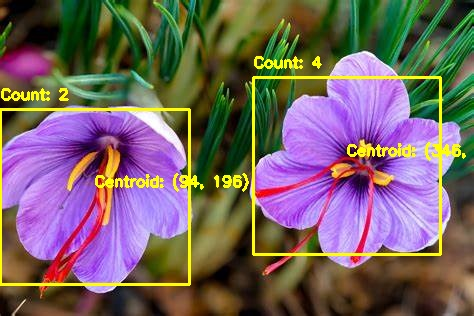
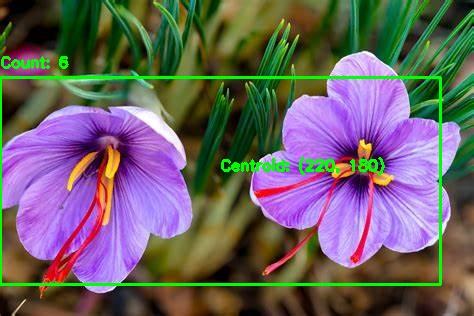
Updated

Changed region(s): [[0.0, 0.1709, 1.0, 0.9114]]

diff --git a/saffronBush.py b/saffronBush.py
@@ -5,7 +5,7 @@ def load_image(file_path):
     """Load an image from the specified file path."""  
     image = cv2.imread(file_path)  
     if image is None:  
-        print(f"Error: Could not load image from {file_path}. Check the file path.")  
+        raise ValueError(f"Error: Could not load image from {file_path}. Check the file path.")  
     return image  
 
 def convert_to_hsv(image):  
@@ -25,80 +25,47 @@ def perform_morphological_operations(mask):
     return mask  
 
 def find_and_draw_groups(image, mask):  
-    """Find contours, group them, and draw a bounding box around each group."""  
+    """Find contours and draw a bounding box around all detected flowers as one group."""  
     contours, _ = cv2.findContours(mask, cv2.RETR_EXTERNAL, cv2.CHAIN_APPROX_SIMPLE)  
-    # Filter contours based on area  
-    filtered_contours = [cnt for cnt in contours if cv2.contourArea(cnt) > 500]  
+    filtered_contours = [cnt for cnt in contours if cv2.contourArea(cnt) > 300]  # Adjusted minimum area  
 
-    groups = []  
-    visited = [False] * len(filtered_contours)  
+    if filtered_contours:  
+        draw_group(image, filtered_contours)  # Draw a single group for all flowers  
 
-    for i in range(len(filtered_contours)):  
-        if not visited[i]:  
-            group = [filtered_contours[i]]  
-            visited[i] = True  
+def draw_group(image, contours):  
+    """Draw a bounding box around all contours and annotate."""  
+    x_min = min(cv2.boundingRect(cnt)[0] for cnt in contours)  
+    y_min = min(cv2.boundingRect(cnt)[1] for cnt in contours)  
+    x_max = max(cv2.boundingRect(cnt)[0] + cv2.boundingRect(cnt)[2] for cnt in contours)  
+    y_max = max(cv2.boundingRect(cnt)[1] + cv2.boundingRect(cnt)[3] for cnt in contours)  
 
-            for j in range(i + 1, len(filtered_contours)):  
-                if not visited[j]:  
-                    # Check if any contour in group is close to contour j  
-                    if is_contour_near(group, filtered_contours[j]):  
-                        group.append(filtered_contours[j])  
-                        visited[j] = True  
-
-            groups.append(group)  
-
-    # Draw groups and report counts  
-    for group in groups:  
-        draw_group(image, group)  
-
-    return groups  
-
-def is_contour_near(group, contour):  
-    """Determine if a contour is near any contour in the existing group."""  
-    group_centroids = [cv2.boundingRect(cnt) for cnt in group]   
-    x, y, w, h = cv2.boundingRect(contour)  
-    centroid = (x + w // 2, y + h // 2)  # center of the current contour  
-
-    for gx, gy, gw, gh in group_centroids:  
-        group_centroid = (gx + gw // 2, gy + gh // 2)  
-        if np.linalg.norm(np.array(centroid) - np.array(group_centroid)) < 100:  # Adjust distance threshold  
-            return True  
-
-    return False  
-
-def draw_group(image, group):  
-    """Draw a bounding box around the group and annotate."""  
-    x_min = min(cv2.boundingRect(cnt)[0] for cnt in group)  
-    y_min = min(cv2.boundingRect(cnt)[1] for cnt in group)  
-    x_max = max(cv2.boundingRect(cnt)[0] + cv2.boundingRect(cnt)[2] for cnt in group)  
-    y_max = max(cv2.boundingRect(cnt)[1] + cv2.boundingRect(cnt)[3] for cnt in group)  
-
-    cv2.rectangle(image, (x_min, y_min), (x_max, y_max), (0, 255, 255), 2)  # Yellow rectangle  
-    count = len(group)  
+    cv2.rectangle(image, (x_min, y_min), (x_max, y_max), (0, 255, 0), 2)  # Green rectangle  
+    count = len(contours)  
     centroid_x = (x_min + x_max) // 2  
     centroid_y = (y_min + y_max) // 2  
 
-    cv2.putText(image, f"Count: {count}", (x_min, y_min - 10), cv2.FONT_HERSHEY_SIMPLEX, 0.5, (0, 255, 255), 2)  
-    cv2.putText(image, f"Centroid: ({centroid_x}, {centroid_y})", (centroid_x, centroid_y - 10), cv2.FONT_HERSHEY_SIMPLEX, 0.5, (0, 255, 255), 2)  
+    cv2.putText(image, f"Count: {count}", (x_min, y_min - 10), cv2.FONT_HERSHEY_SIMPLEX, 0.5, (0, 255, 0), 2)  
+    cv2.putText(image, f"Centroid: ({centroid_x}, {centroid_y})", (centroid_x, centroid_y - 10), cv2.FONT_HERSHEY_SIMPLEX, 0.5, (0, 255, 0), 2)  
 
 def main(file_path, lower_hue, upper_hue):  
     """Main function to load an image, detect objects, and save/display the result."""  
-    image = load_image(file_path)  
-    if image is not None:  
+    try:  
+        image = load_image(file_path)  
         hsi_image = convert_to_hsv(image)  
         mask = create_mask(hsi_image, lower_hue, upper_hue)  
         mask = perform_morphological_operations(mask)  
 
-        groups = find_and_draw_groups(image, mask)  
+        find_and_draw_groups(image, mask)  
         
-        # Save the result image  
         output_file_path = 'E:/saffronImageProcess/Grouped_Saffron_Flowers.jpg'  
         cv2.imwrite(output_file_path, image)  
         print(f"Output image saved to {output_file_path}")  
+    except Exception as e:  
+        print(e)  
 
 # Define color ranges for saffron flower  
-saffron_lower_hue = np.array([120, 100, 100])  # Adjust these values  
-saffron_upper_hue = np.array([140, 255, 255])  # Adjust these values  
+saffron_lower_hue = np.array([120, 100, 100])  # Adjusted lower hue range  
+saffron_upper_hue = np.array([140, 255, 255])  # Adjusted upper hue range  
 
 # Call the main function for saffron  
 main('E:/saffronImageProcess/Source/3.jpg', saffron_lower_hue, saffron_upper_hue)
